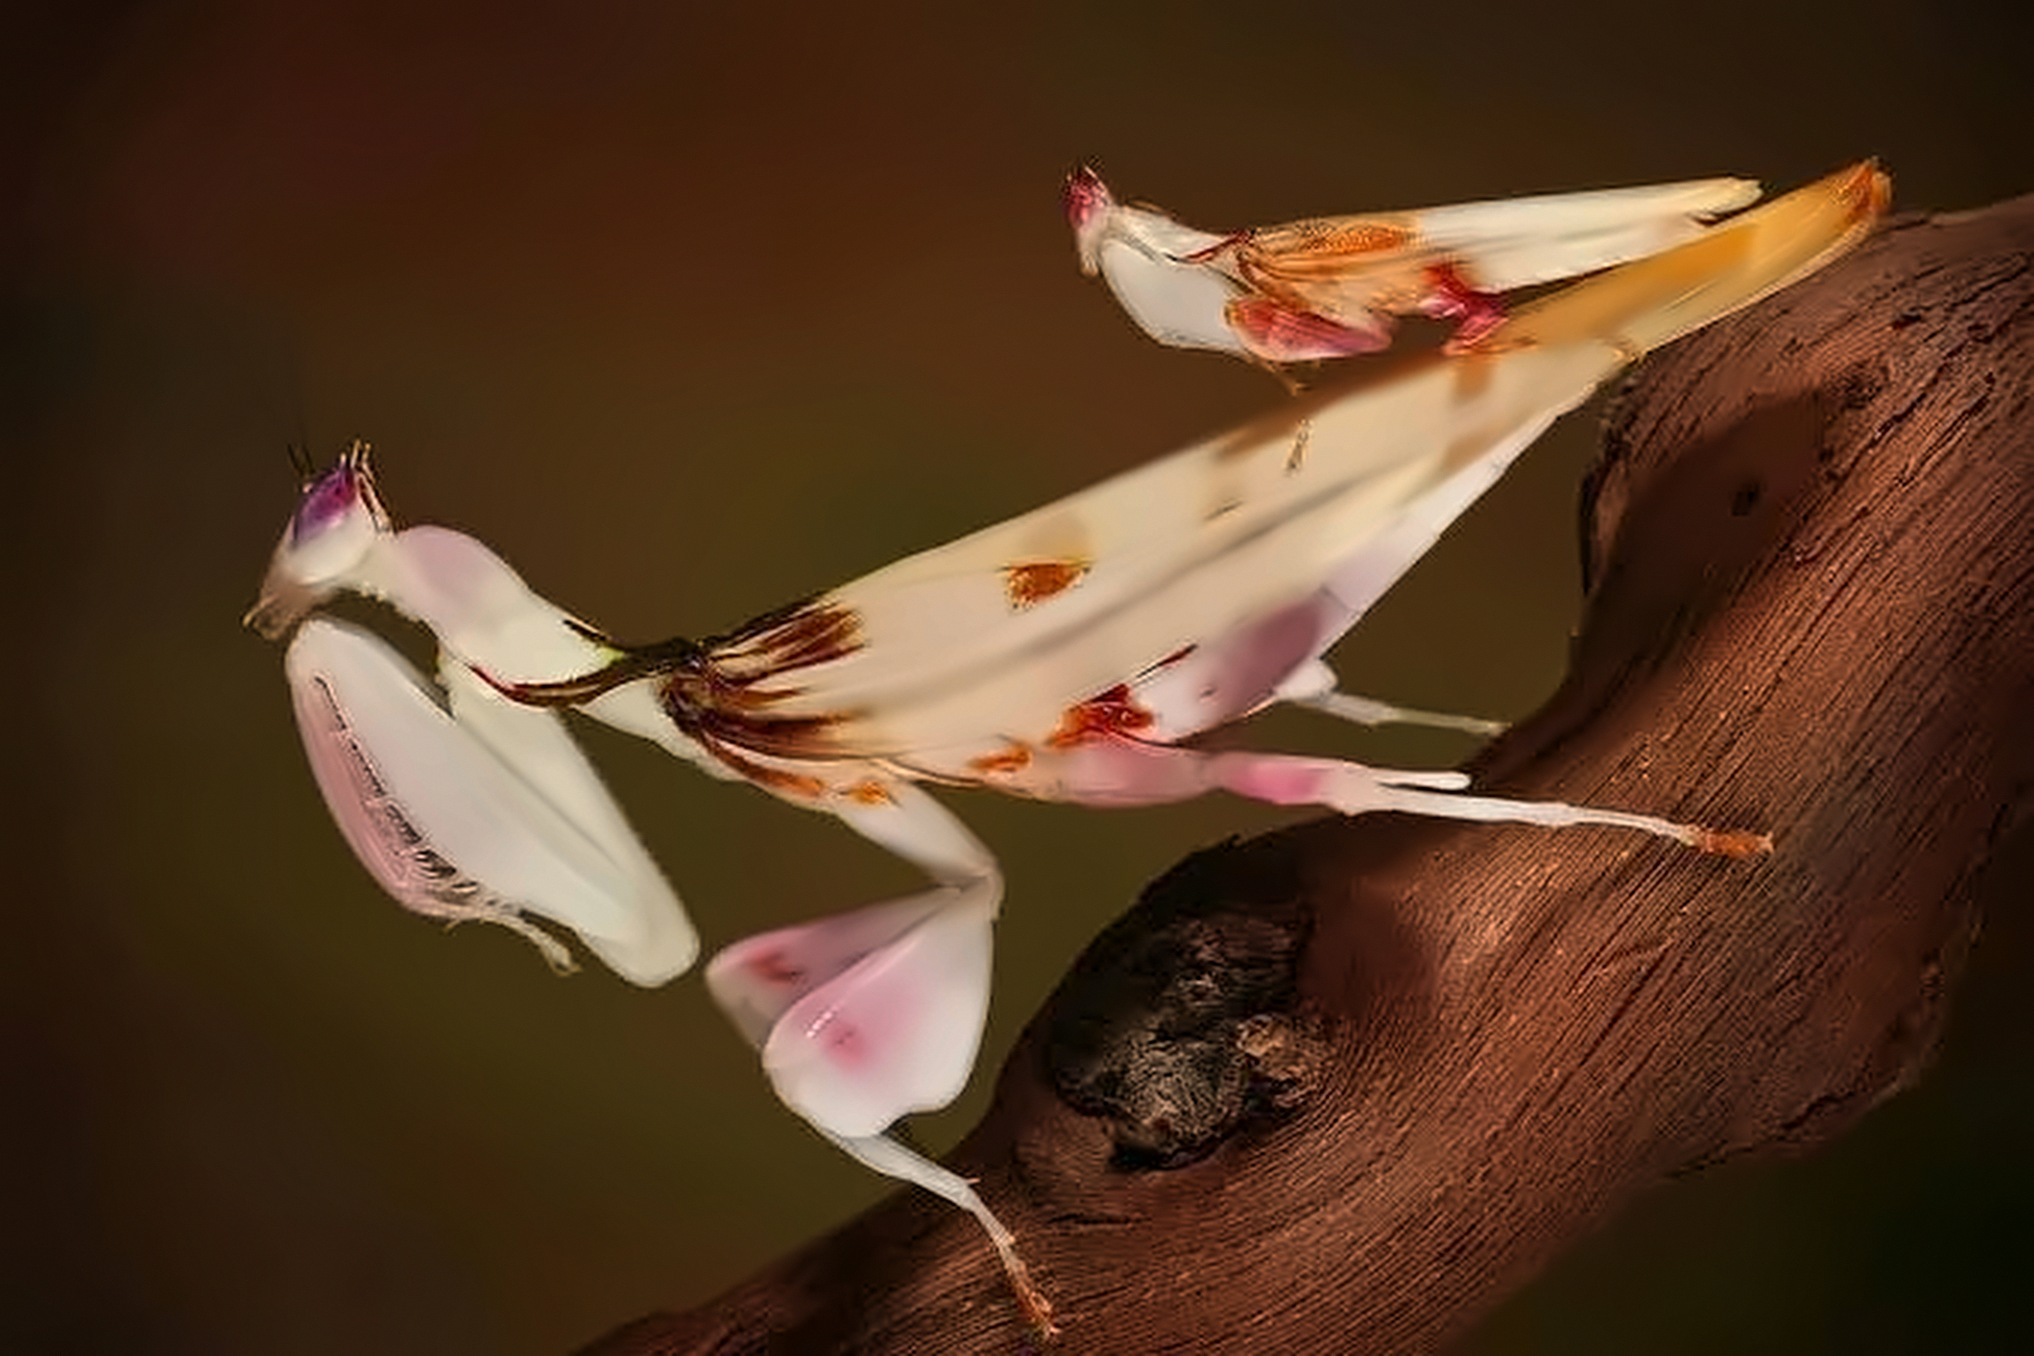
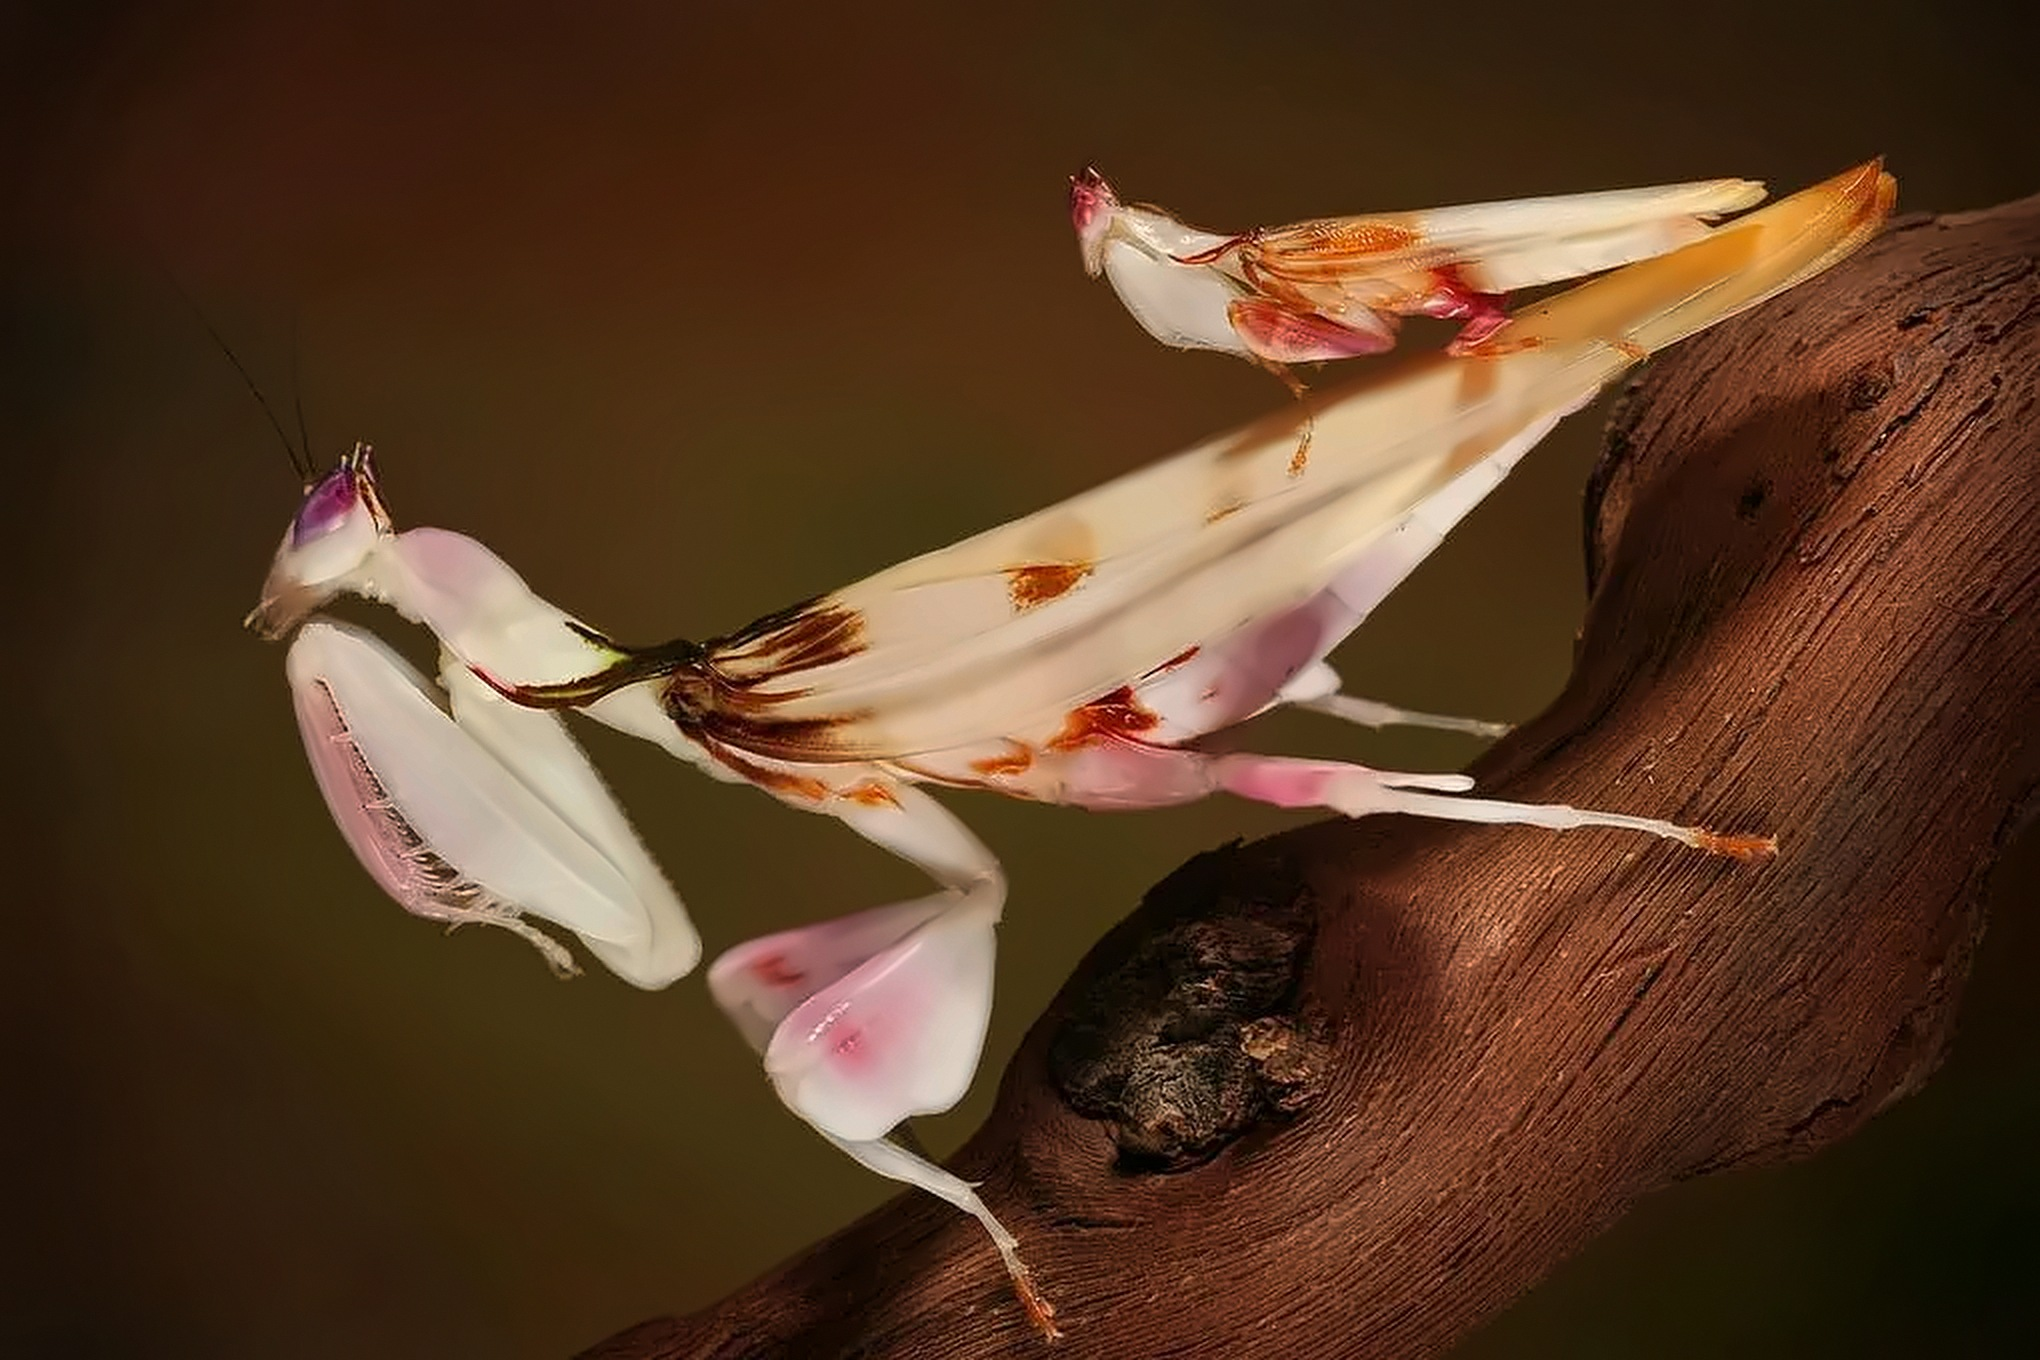
난초사마귀 사진을 더 큰 원본으로 교체

diff --git a/index.html b/index.html
@@ -15,7 +15,7 @@
   <div class="hero-word">
     <h1 class="hero-title"><b>Bug</b>Log</h1>
   </div>
-  <img class="hero-bug" src="assets/mantis.jpg?v=3" alt="난초사마귀">
+  <img class="hero-bug" src="assets/mantis.jpg?v=4" alt="난초사마귀">
 </section>
 
 <main>
